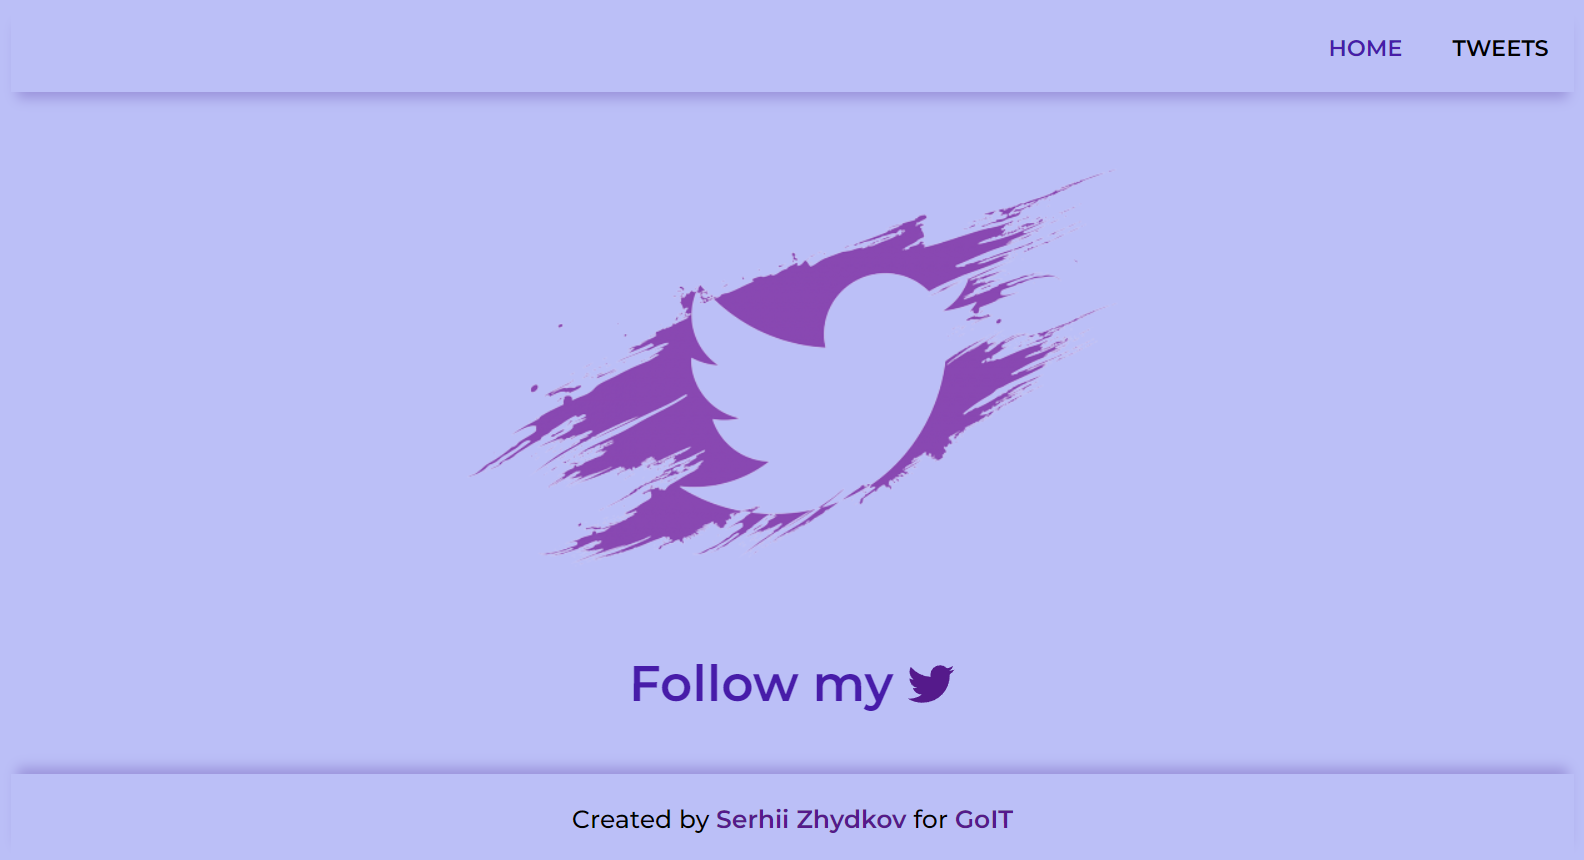
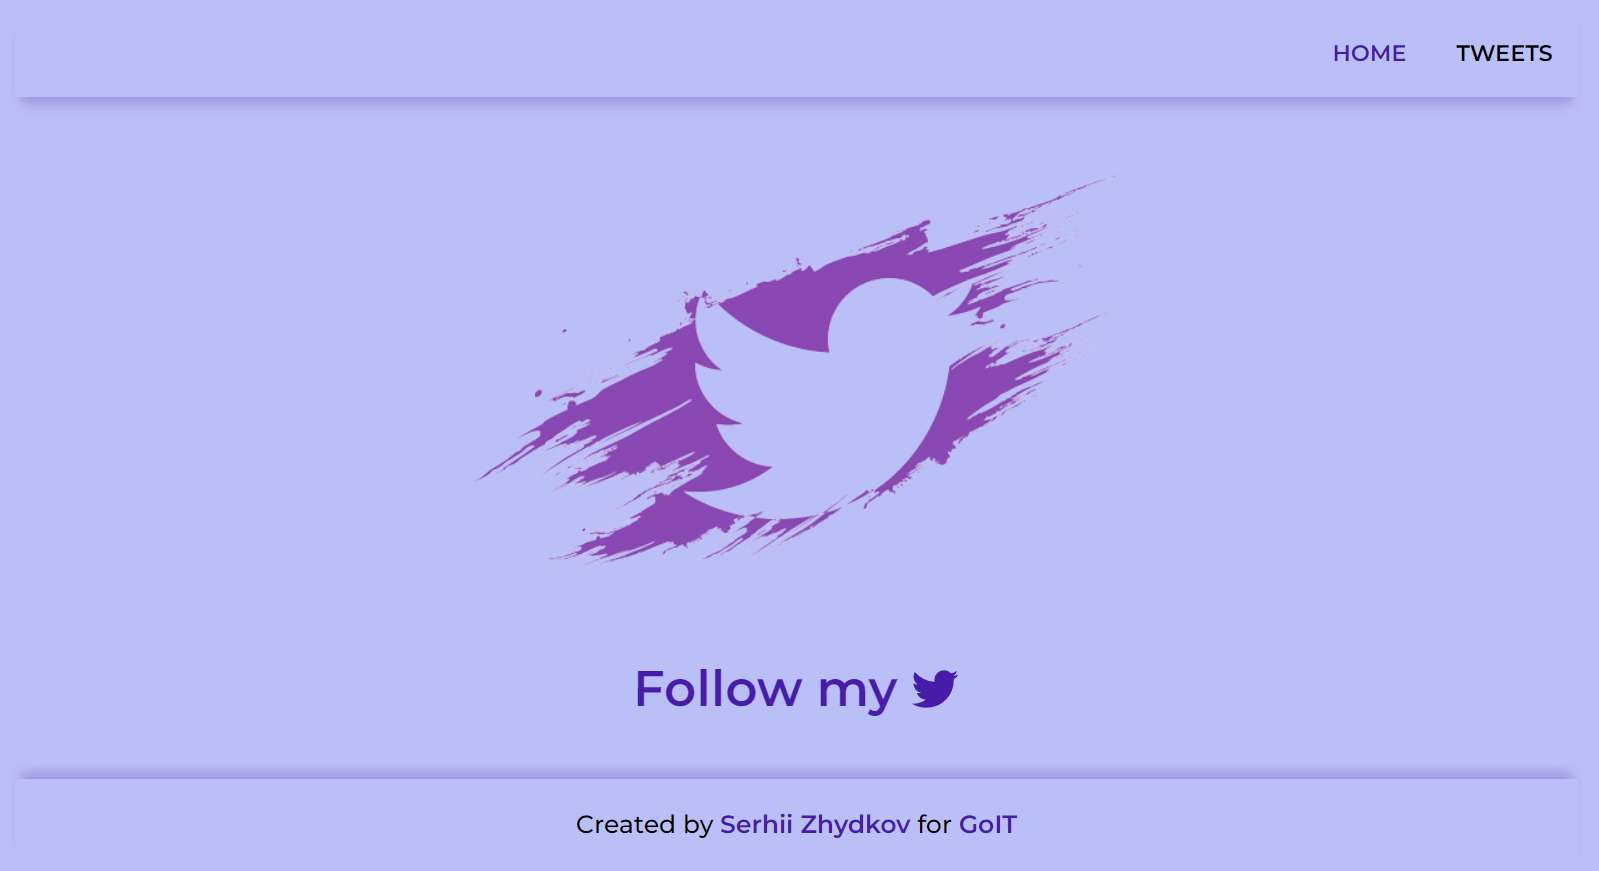
fix styles

diff --git a/src/pages/Home/Home.jsx b/src/pages/Home/Home.jsx
@@ -17,7 +17,7 @@ const Home = () => {
         <Title>
           Follow my
           <StyledLink to="/tweets">
-            <IoLogoTwitter />
+            <IoLogoTwitter style={{ color: '#471ca9' }}  />
           </StyledLink>
         </Title>
       </ContainerTitle>

diff --git a/src/pages/Home/Home.styled.jsx b/src/pages/Home/Home.styled.jsx
@@ -22,6 +22,7 @@ export const StyledLink = styled(Link)`
   margin-left: 10px;
   width: 40px;
   height: 40px;
+  color: #471ca9;
   :active {
     color: #471ca9;
   }

diff --git a/src/components/CardList/CardList.styled.jsx b/src/components/CardList/CardList.styled.jsx
@@ -59,4 +59,5 @@ export const Label = styled.label`
   font-weight: 600;
   font-size: 18px;
   color: #000000;
+  margin-right: 8px;
 `;
